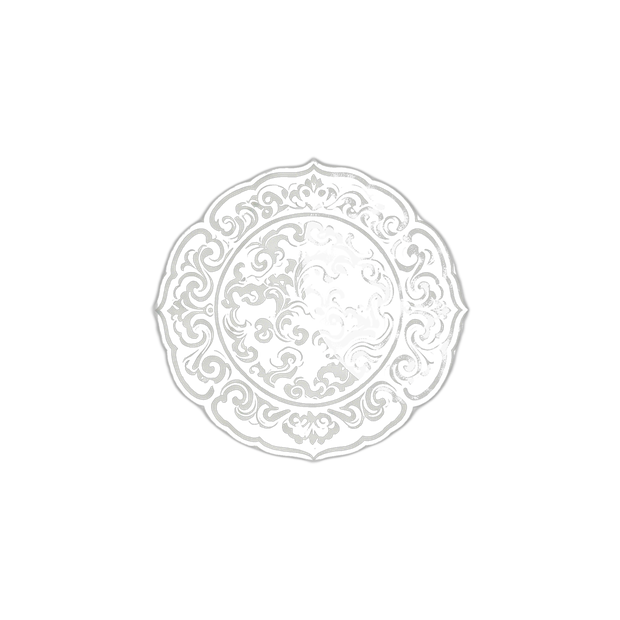
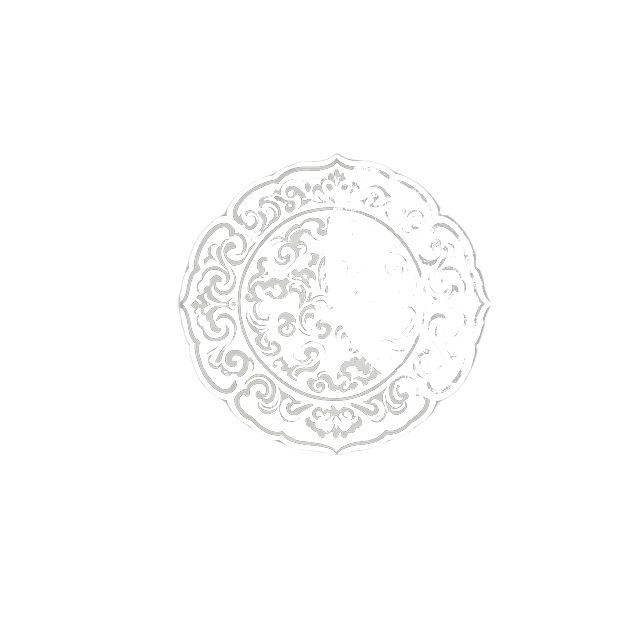
Copy fixes, pattern alignment, modal whitespace removal
- Update copy for 琥珀/玫瑰/蓝心/碧云/进宝签 per draft
- Skip empty verse/note in modal (no bare 「」)
- Recenter and enlarge dark pattern behind bucket
- Remove fixed-height whitespace below modal photos

Changed region(s): [[0.2452, 0.2452, 0.7968, 0.7661]]

diff --git a/assets/things/things-data.js b/assets/things/things-data.js
@@ -4,7 +4,7 @@ window.THINGS_DATA = [
     "id": "n01",
     "name": "琥珀银杏罩",
     "signLabel": "琥珀签",
-    "note": "塑封一片金黄银杏， *amber* 给秋天起了小名。",
+    "note": "塑封一片金黄银杏，\"amber\" 给秋天起了小名。",
     "story": "在通往宿舍的银杏大道上，捡起一片金色的秋天。",
     "verse": "",
     "blessing": "愿你把寻常日子里的光亮，也一一收藏。",
@@ -125,8 +125,8 @@ window.THINGS_DATA = [
     "name": "雪莱玫瑰诗笺",
     "signLabel": "玫瑰签",
     "note": "",
-    "story": "What are all these kissings worth if thou kiss not me.——被写在雾面纸上，像把易碎的心事，也温柔封存。",
-    "verse": "Love is a rose, and you its only seed.",
+    "story": "Love is a rose, and you its only seed.",
+    "verse": "What are all these kissings worth if thou kiss not me.",
     "blessing": "愿爱来时丰盈，去时亦无憾。",
     "ph": "ph-paper",
     "glyph": "玫",
@@ -255,7 +255,7 @@ window.THINGS_DATA = [
   {
     "id": "n22",
     "name": "暮山紫碧云双签",
-    "signLabel": "山色签",
+    "signLabel": "碧云签",
     "note": "左「暮山紫」，右「碧云」，水彩染卡书签。",
     "story": "暮色染山紫，碧云叠千层——两种天色，各藏一份远望的心事。",
     "verse": "暮山收紫，碧云千层。",
@@ -374,12 +374,12 @@ window.THINGS_DATA = [
   },
   {
     "id": "n32",
-    "name": "雪莱蓝雾玫瑰卡",
+    "name": "蓝心签",
     "signLabel": "蓝玫签",
-    "note": "蓝渐变磨砂卡，雪莱情诗与玫瑰线描。",
-    "story": "爱与死、玫瑰与坟墓——雪莱的句子，被雾面蓝温柔托住。",
-    "verse": "When love dies the heart is but a living grave.",
-    "blessing": "愿真心永活，不必以凋零为代价。",
+    "note": "硫酸纸，题圆体英文。",
+    "story": "我的心似柔软的草地，与繁花、光影永世相伴。",
+    "verse": "My soul is a meadow, full of flowers, trembling shadows and refracted light.",
+    "blessing": "愿你永远拥有一枚澄澈的心。",
     "ph": "ph-paper",
     "glyph": "玫",
     "image": "assets/things/ui/items/32-0a2e788e388d.png"
@@ -448,9 +448,9 @@ window.THINGS_DATA = [
     "id": "n38",
     "name": "招财进宝笺",
     "signLabel": "进宝签",
-    "note": "合体字「招财进宝」，龙凤呈祥底纹。",
+    "note": "合体字「日进斗金」，龙凤呈祥底纹。",
     "story": "四字合成一字，喜气与财气同来——传统吉语里，最直白的祝福往往最动人。",
-    "verse": "招财进宝，龙凤呈祥。",
+    "verse": "日进斗金，龙凤呈祥。",
     "blessing": "愿财源广进，亦愿心安富足。",
     "ph": "ph-calligraphy",
     "glyph": "财",

diff --git a/assets/things-section.css b/assets/things-section.css
@@ -2466,11 +2466,11 @@ body.winter #things.open-section.things-v6 .things-welcome {
 #things.open-section.things-v6 .pattern-center {
   position: absolute;
   left: 50%;
-  top: 50%;
-  width: min(620px, 172%);
-  height: min(620px, 172%);
-  margin-left: min(-310px, -86%);
-  margin-top: min(-310px, -86%);
+  top: 56%;
+  width: min(700px, 198%);
+  height: min(700px, 198%);
+  margin-left: min(-350px, -99%);
+  margin-top: min(-350px, -99%);
   z-index: 0;
   opacity: 1;
   pointer-events: none;
@@ -2487,7 +2487,7 @@ body.winter #things.open-section.things-v6 .things-welcome {
   width: 100%;
   height: 100%;
   object-fit: contain;
-  object-position: center center;
+  object-position: 53% 49%;
   pointer-events: none;
 }
 
@@ -3072,9 +3072,18 @@ body.winter #things.open-section.things-v6 .pattern-rotor img { filter: grayscal
 
 /* 签纸展开：大图 + 柔边 + 粗糙纸感 */
 #things.open-section.things-v6 .modal-has-photo .modal-visual-tall {
-  min-height: 240px;
+  min-height: 0;
   height: auto;
-  margin: 0.45rem auto 0.35rem;
+  margin: 0.45rem auto 0.2rem;
+  background: transparent;
+  box-shadow: none;
+  overflow: visible;
+}
+#things.open-section.things-v6 .modal-has-photo .modal-visual-tall .thing-photo {
+  display: block;
+  width: 100%;
+  height: auto;
+  max-height: 320px;
 }
 #things.open-section.things-v6 .thing-photo {
   width: 100%;

diff --git a/index (1).html b/index (1).html
@@ -10,7 +10,7 @@
 <link href="https://cdn.jsdelivr.net/npm/lxgw-wenkai-webfont@1.7.0/style.css" rel="stylesheet">
 <link rel="stylesheet" href="assets/visual-section.css">
 <link rel="stylesheet" href="assets/dh-section.css">
-<link rel="stylesheet" href="assets/things-section.css?v=27">
+<link rel="stylesheet" href="assets/things-section.css?v=28">
 <link rel="stylesheet" href="assets/photography-breeze.css?v=7">
 <link rel="stylesheet" href="assets/photography-main.css?v=8">
 <style>
@@ -2187,8 +2187,8 @@ function closeLightbox() {
 
 <script src="https://cdnjs.cloudflare.com/ajax/libs/pdf.js/3.11.174/pdf.min.js"></script>
 <script src="assets/visual-section.js"></script>
-<script src="assets/things/things-data.js?v=6"></script>
-<script src="assets/things-section.js?v=26"></script>
+<script src="assets/things/things-data.js?v=7"></script>
+<script src="assets/things-section.js?v=28"></script>
 <script>
   document.addEventListener('DOMContentLoaded', () => {
     const thingsRoot = document.getElementById('things');

diff --git a/assets/things-section.js b/assets/things-section.js
@@ -796,10 +796,10 @@ function initThingsV6(root) {
           <p class="letter-sign-label">${item.signLabel}</p>
           <div class="modal-visual modal-visual-tall">${renderThumb(item)}</div>
           <p class="letter-item-name">${item.name}</p>
-          <p class="letter-note">${item.note}</p>
-          <p class="letter-verse">「${item.verse}」</p>
+          ${item.note ? `<p class="letter-note">${item.note}</p>` : ''}
+          ${item.verse ? `<p class="letter-verse">「${item.verse}」</p>` : ''}
           ${item.blessing ? `<p class="letter-blessing">${item.blessing}</p>` : ''}
-          <p class="modal-story">${item.story}</p>
+          ${item.story ? `<p class="modal-story">${item.story}</p>` : ''}
           <div class="bookmark-modal-actions">
             <button type="button" class="bm-btn bm-fold">收起</button>
             <button type="button" class="bm-btn bm-again">再摇一支</button>
